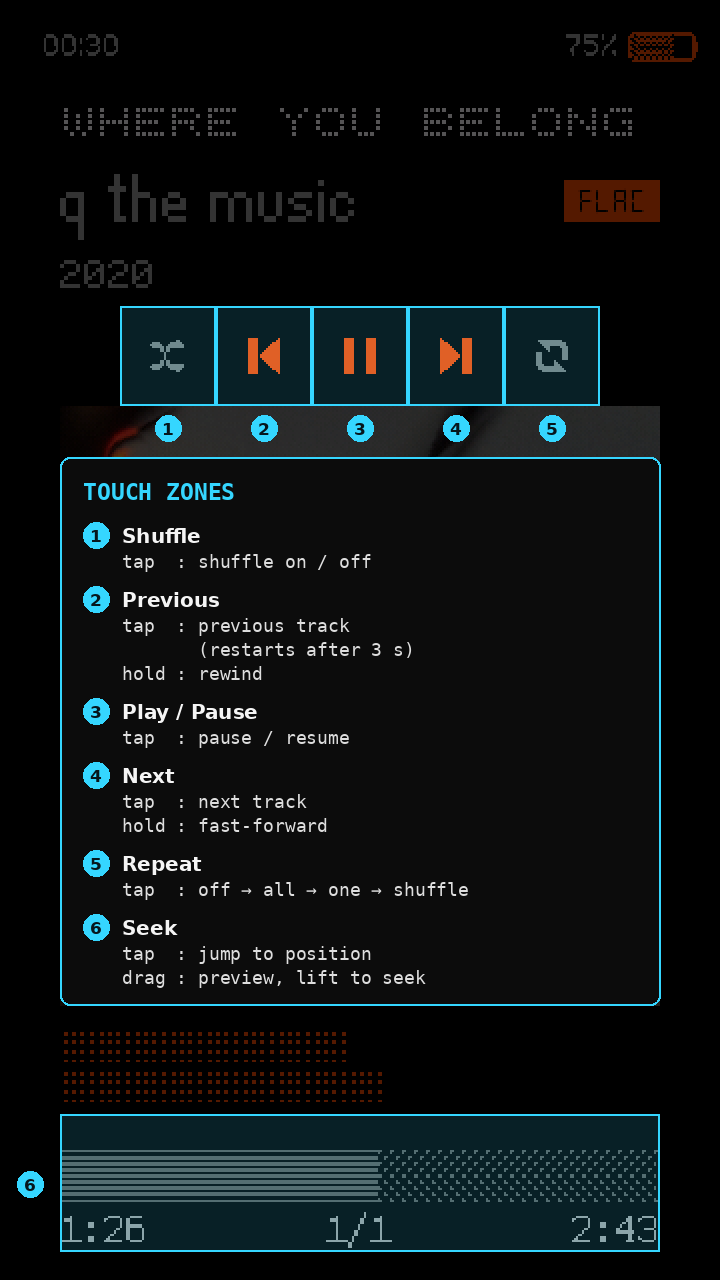
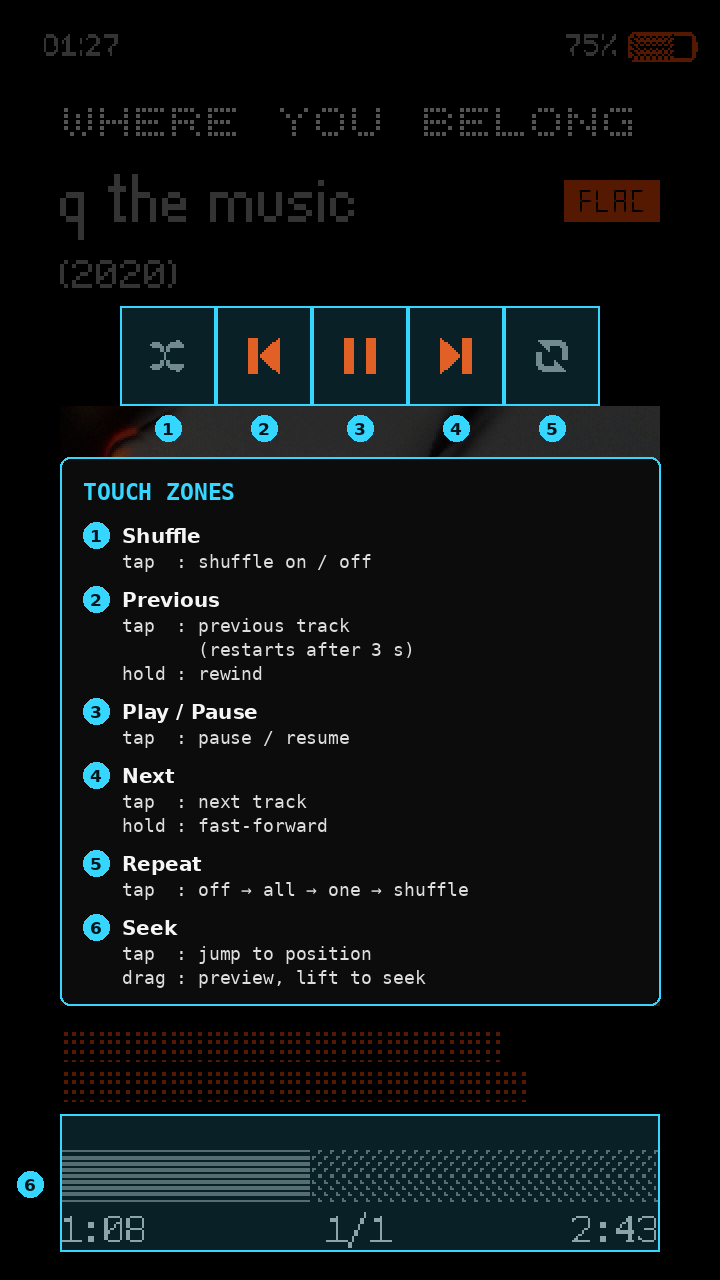
USB screen: clock one size up; singles show the year in brackets
USB screen (SBS)
- The clock uses the menu header's dot-matrix font one size up: the
  original 47-SquareDotCombined that the header's 35 px version was
  scaled from, with 18 px digits instead of 14 px.
- New fonts/47-SquareDotCombined-ASCII.fnt: that font cut down to
  printable ASCII (42 KB instead of 10.9 MB), with every dot at full
  strength like the 35 px version. It has its own file name, so it never
  replaces the full font of the CrazyBit Tube theme.
- Clock, plug and battery block re-spaced evenly (49 px apart).

Now playing (WPS)
- For a single (album name = title) the album line shows the year in
  brackets, "(2020)".

Previews: now playing, touch zones and USB screen re-captured in the
simulator.

diff --git a/README.md b/README.md
@@ -14,12 +14,12 @@
 
 - **Full WPS layout** — track title / artist / album, 300×300 album-art box, dithered progress bar, peak meter, and graphic volume bar
 - **Vacuum-tube orange accents** (`#FF4D00`) on pure black — battery icon, playback buttons, peak meter, codec tag, the selected item in every list and the menu's header and footer rules.
-- **Dot-matrix track info** — the title in *SquareDotCombined* (also covers Japanese, Chinese and Korean), the artist and the album + year in *LanaPixel* (only the year for a single, when the album name is the same as the title), and a solid orange codec tag (`MP3`, `FLAC`, …) in *Digital-7 Mono* at the end of the artist line
+- **Dot-matrix track info** — the title in *SquareDotCombined* (also covers Japanese, Chinese and Korean), the artist and the album + year in *LanaPixel* (just the year, e.g. “(2020)”, for a single — when the album name is the same as the title), and a solid orange codec tag (`MP3`, `FLAC`, …) in *Digital-7 Mono* at the end of the artist line
 - **Tactile progress bar** — tap it to jump, or drag along it and lift to seek, with a finger-sized touch zone around the bar
 - **Touch transport** — small shuffle · previous · play/pause · next · repeat buttons (16–18 px glyphs, 48 px apart) centred under the track info; shuffle and repeat are grey when off and turn orange when on
 - **Custom header** — clock on the left, battery percentage + 11-frame battery icon on the right, all drawn by the skin (status bar disabled)
 - **Lock screen** — big clock, now-playing info, time remaining, plus charging / low-battery states
-- **USB screen** — while connected to a computer: the time in the menu header's dot-matrix font (SquareDotCombined), the date, the battery level (big percentage + a dot-matrix gauge in the peak meter's style), charging status (Charging / Charged / Not charging) and battery voltage, with the eject reminder in the footer
+- **USB screen** — while connected to a computer: the time in the menu header's dot-matrix font (SquareDotCombined, one size up), the date, the battery level (big percentage + a dot-matrix gauge in the peak meter's style), charging status (Charging / Charged / Not charging) and battery voltage, with the eject reminder in the footer
 - **Playback indicators** — the shuffle / repeat buttons show the current mode (repeat one and repeat shuffle have their own icons), and the play button turns into ◀◀ / ▶▶ while seeking
 - **1-bit monochrome iconset** for the file browser and viewers (`modone.bmp` / `modone_viewer.bmp`)
 - **LanaPixel main font** for the menus, file browser, settings and the now-playing footer (covers Japanese, Chinese and Korean), with the original ProFontIIx + Monogram fonts for the clock, battery percentage and labels, plus the three track-info fonts on the now-playing screen. The "Rockbox" title in the menu header uses the track title's dot-matrix font (SquareDotCombined)
@@ -30,7 +30,7 @@
 
 ```
 .rockbox/
-├── fonts/    # LanaPixel (14/21), ProFontIIx (23/26/33/35/44/50) + 11-monogram, 35-SquareDotCombined, 20-digital7mono
+├── fonts/    # LanaPixel (14/21), ProFontIIx (23/26/33/35/44/50) + 11-monogram, 35-SquareDotCombined, 47-SquareDotCombined-ASCII, 20-digital7mono
 ├── icons/    # modone iconset (main + viewers)
 ├── themes/   # FleshAndBones.cfg (colours, fonts, list padding)
 └── wps/      # FleshAndBones.wps / FleshAndBones.sbs + bitmaps
@@ -72,7 +72,7 @@ The first six areas are on the now playing screen; the last one is in the footer
 - **Based on:** *OneBit_OLED* by Jihoon Kim · *OneBit_VFD* by chronicallyoffline \<ben@chronicallyoffline.xyz\>
 - **Thanks to:** Jihoon Kim, Chuck Lardo and D0-0K for inspiration and for code/assets reused under CC-BY-SA and GPL v3 respectively
 - **AP80 Pro Max port:** colours, fonts, iconsets and 360×640 layout — v1.0 (2026-04-09)
-- **Fonts:** *LanaPixel* (main font and artist) by eishiya · *SquareDot* and *Digital-7 Mono* by Sizenko Alexander (Style-7) · *SquareDotCombined* (SquareDot plus CJK glyphs) from ottoptj's *CrazyBitMono*. The `.fnt` files and the vacuum-tube orange come from mr-f0xx's *CrazyBit Tube Edition* for the AP80 Pro Max; `35-SquareDotCombined.fnt` is a ¾-size version made from its `47-SquareDotCombined.fnt` (the same dots on a 3 px grid).
+- **Fonts:** *LanaPixel* (main font and artist) by eishiya · *SquareDot* and *Digital-7 Mono* by Sizenko Alexander (Style-7) · *SquareDotCombined* (SquareDot plus CJK glyphs) from ottoptj's *CrazyBitMono*. The `.fnt` files and the vacuum-tube orange come from mr-f0xx's *CrazyBit Tube Edition* for the AP80 Pro Max; `35-SquareDotCombined.fnt` is a ¾-size version made from its `47-SquareDotCombined.fnt` (the same dots on a 3 px grid), and `47-SquareDotCombined-ASCII.fnt` (the USB screen clock) is that font cut down to its printable ASCII characters.
 
 ## License
 
